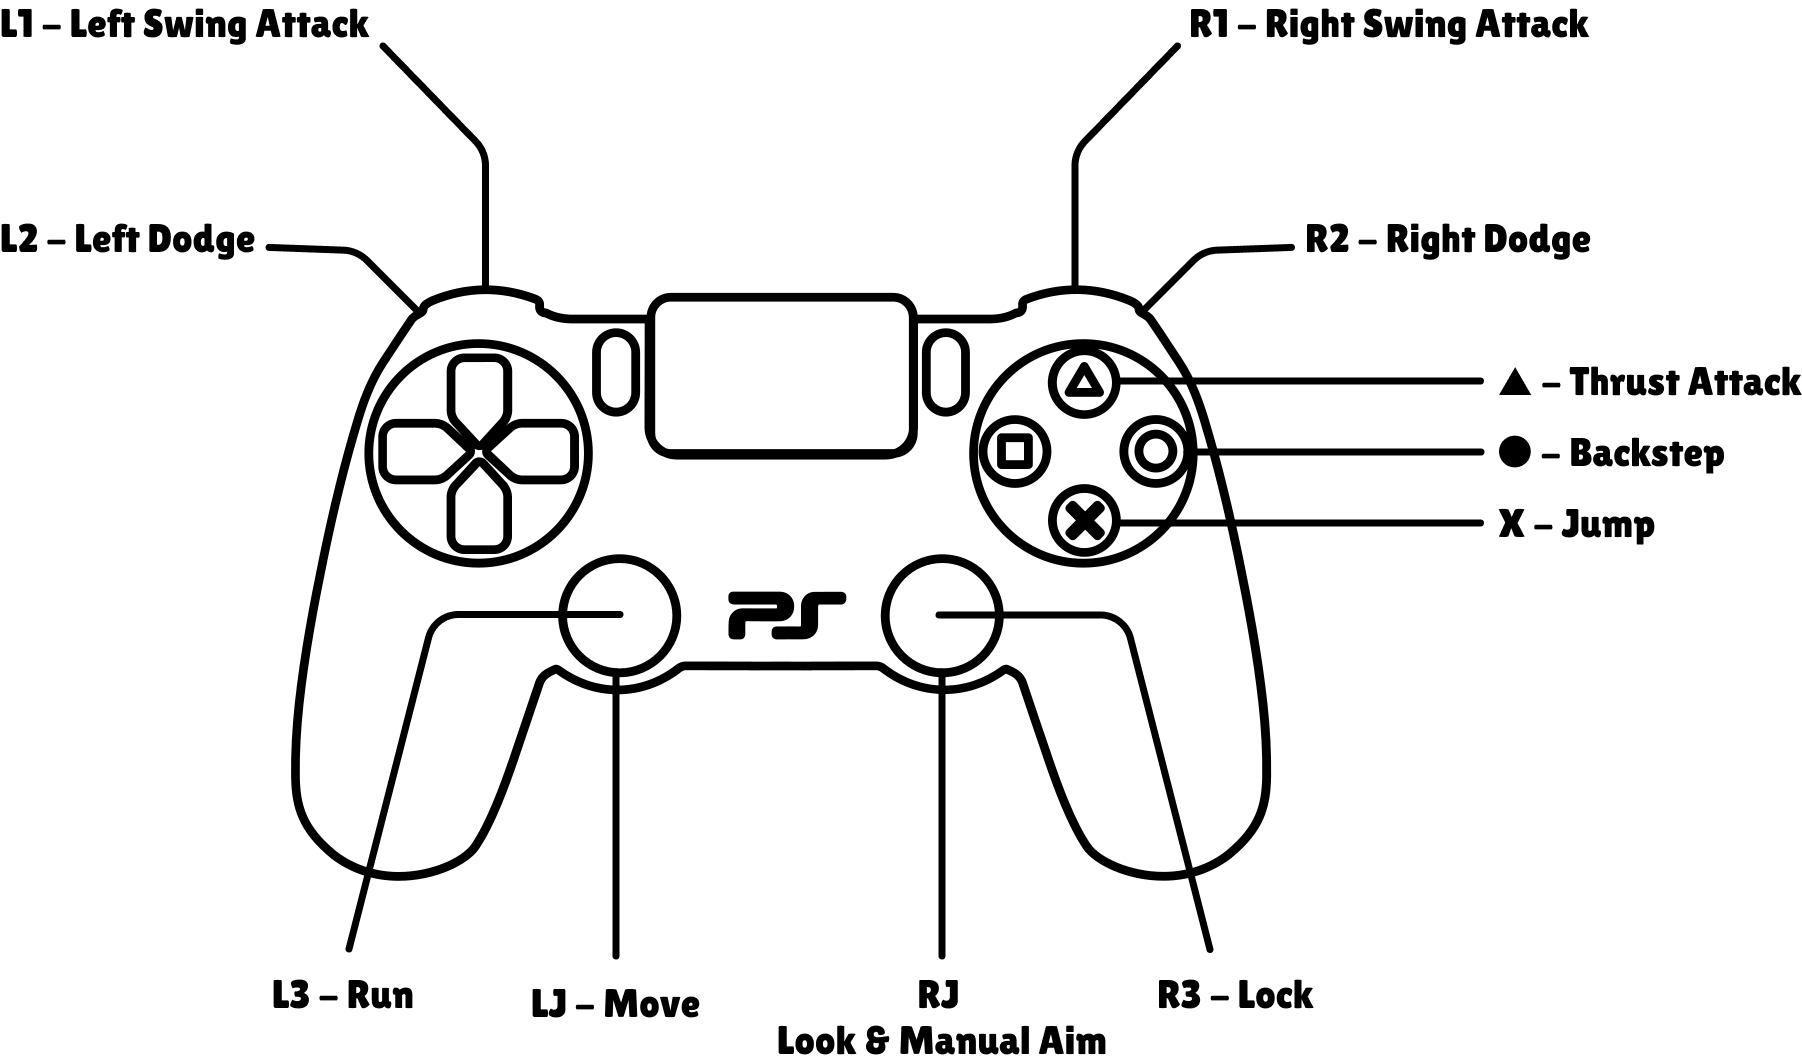
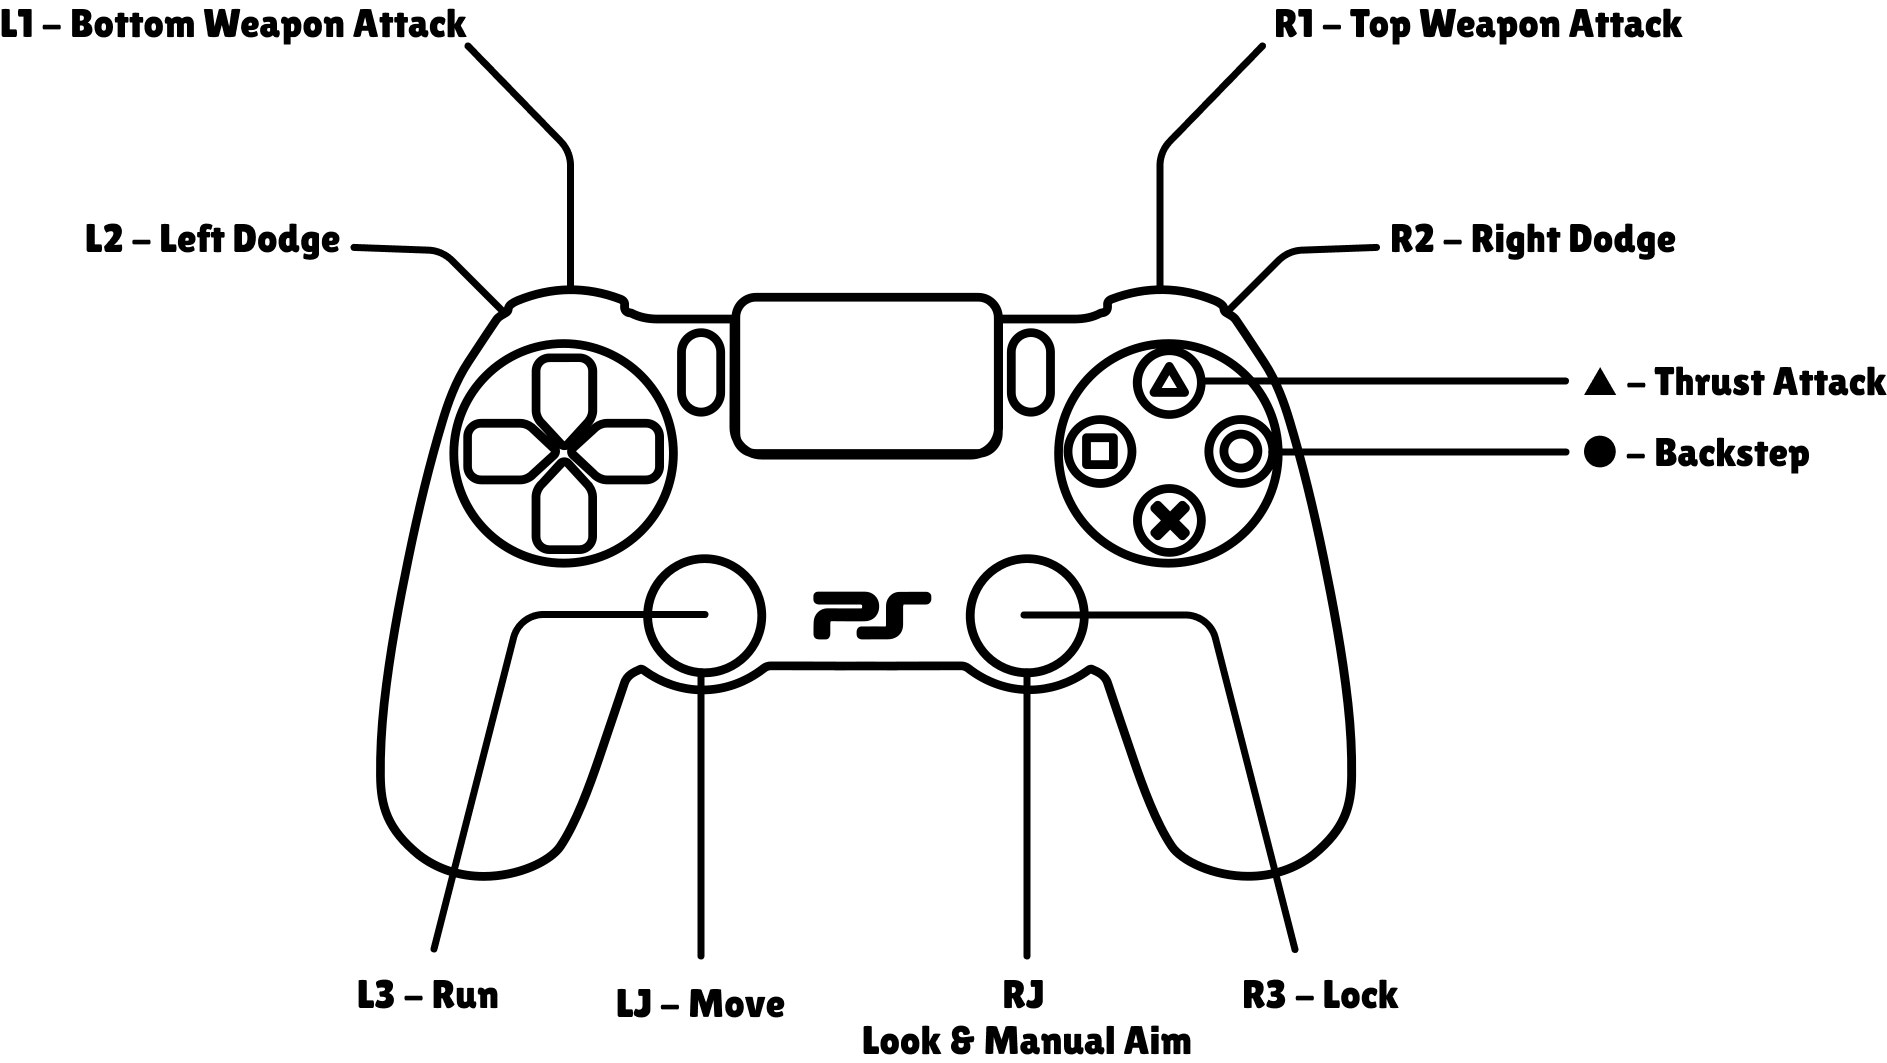
Minor Changes

Changed region(s): [[0.0, 0.0, 0.9634, 0.9934], [0.808, 0.3415, 0.9945, 0.3725]]

diff --git a/Assets/Scripts/Enemies/StaticEnemy.cs b/Assets/Scripts/Enemies/StaticEnemy.cs
@@ -14,6 +14,7 @@ public class StaticEnemy : MonoBehaviour
     [SerializeField] private bool nonAgressive;
     [SerializeField] private bool isInvincible;
     [SerializeField] private bool forceThrust;
+    [SerializeField] private bool forceBottom;
     [SerializeField] private float actionTriggerTime = 5f;
     private float actionTriggerTimer = 0f;
 
@@ -40,7 +41,11 @@ public class StaticEnemy : MonoBehaviour
                 
                 if(!forceThrust)
                 {
-                    inputManager.tryingToWeaponTopAttack = true;
+                    if(forceBottom)
+                        inputManager.tryingToWeaponBottomAttack = true;
+                    else
+                        inputManager.tryingToWeaponTopAttack = true;
+
 
                     // Force a random angle for each attack
                     float randomAngle = Random.Range(Random.Range(0f, 360f), Random.Range(0f, 360f));

diff --git a/Assets/Scripts/Characters/DamagableScript.cs b/Assets/Scripts/Characters/DamagableScript.cs
@@ -225,13 +225,13 @@ public class DamagableScript : MonoBehaviour
         character.animator.SetFloat(character.animKeys.hitID, randomAnimID);
         character.animator.SetTrigger(character.animKeys.hitTriggerKey);
 
-        // Update tag & layer
-        gameObject.tag = "Corpse";
-        gameObject.layer = 8;
-
         // Data Gather
         if (gameObject.tag == "Player")
             DataCollector.currentTest.deathsCount += 1;
+
+        // Update tag & layer
+        gameObject.tag = "Corpse";
+        gameObject.layer = 8;
     }
 
     #endregion

diff --git a/Assets/Scripts/Input/InputManager.cs b/Assets/Scripts/Input/InputManager.cs
@@ -123,6 +123,9 @@ public class InputManager : MonoBehaviour
     // Movement Actions
     public void ActionJump(InputAction.CallbackContext context)
     {
+        // for this prototype the jump is left out. Remove the return to reactivate jump
+        return;
+
         if (context.performed)
         {
             tryingToJump = true;

diff --git a/Assets/Scripts/Characters/Character.cs b/Assets/Scripts/Characters/Character.cs
@@ -292,7 +292,7 @@ public class Character : MonoBehaviour
             float stepDistance = Mathf.Lerp(stepLengthMultiplier, 0f, elapsedTime / stepTime);
 
             if (!isLocking)
-                stepDistance *= 2f;
+                stepDistance *= 1.3f;
 
             Vector3 newPosition = new Vector3();
 
